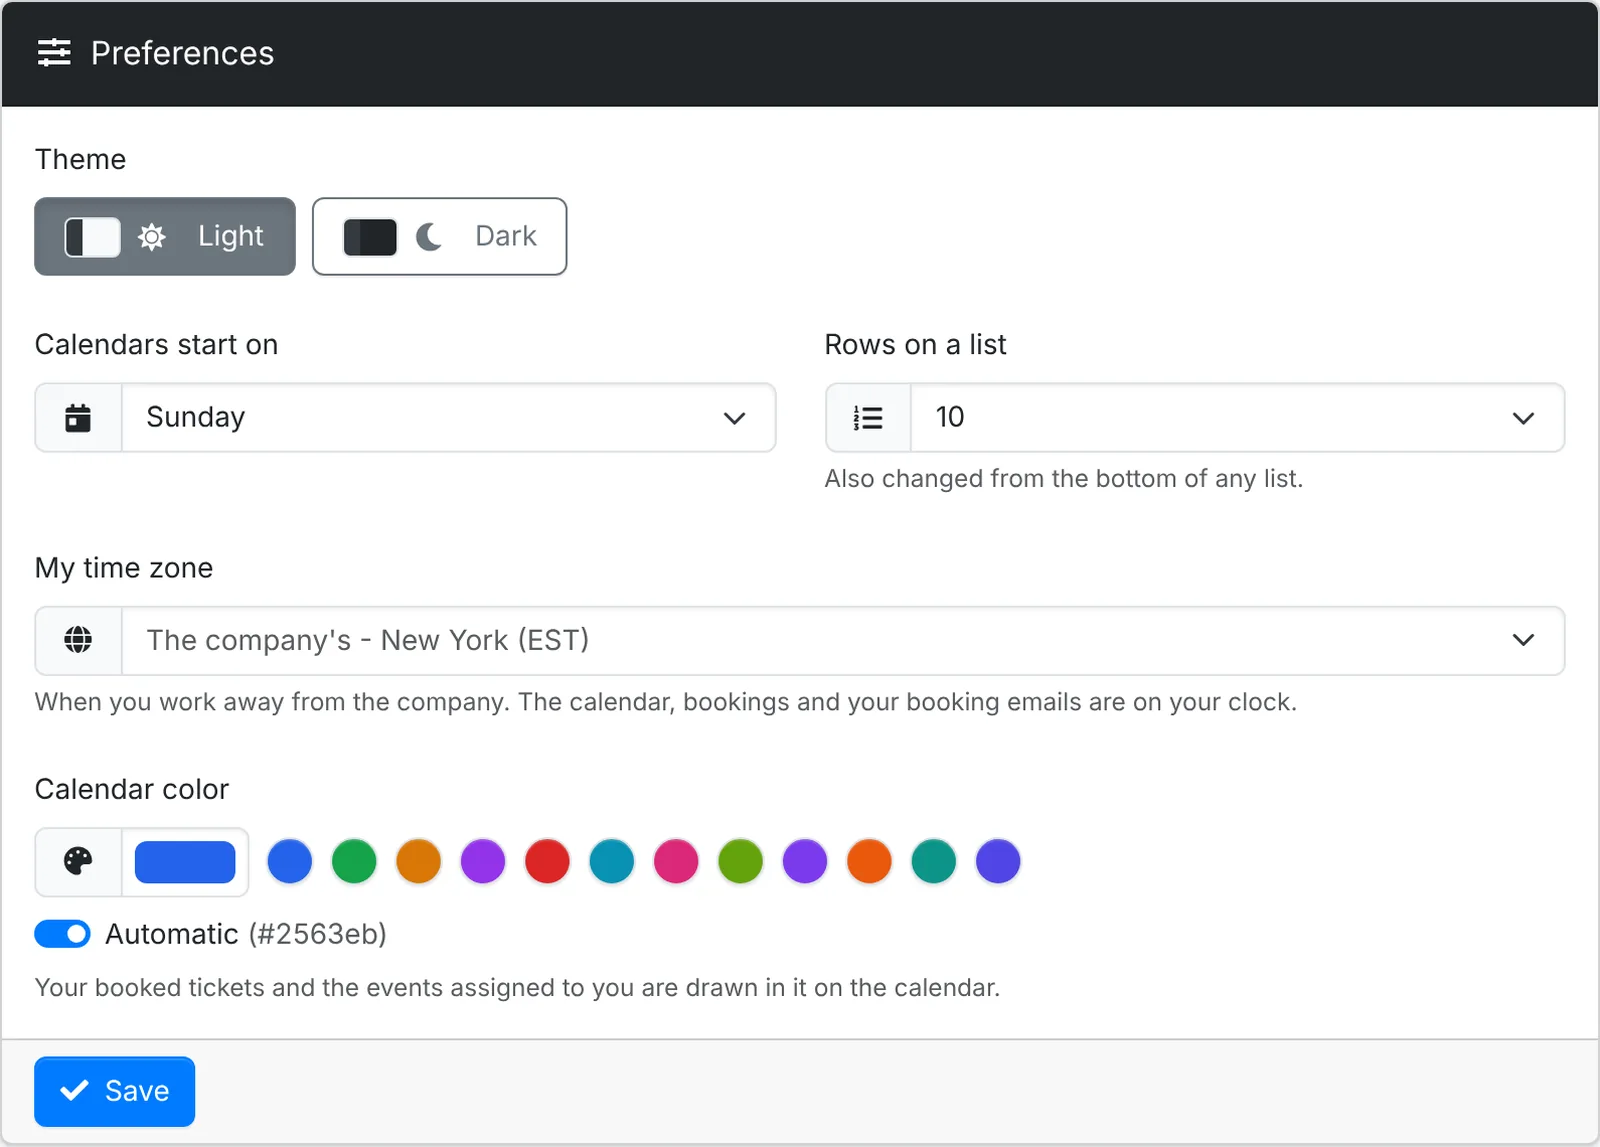
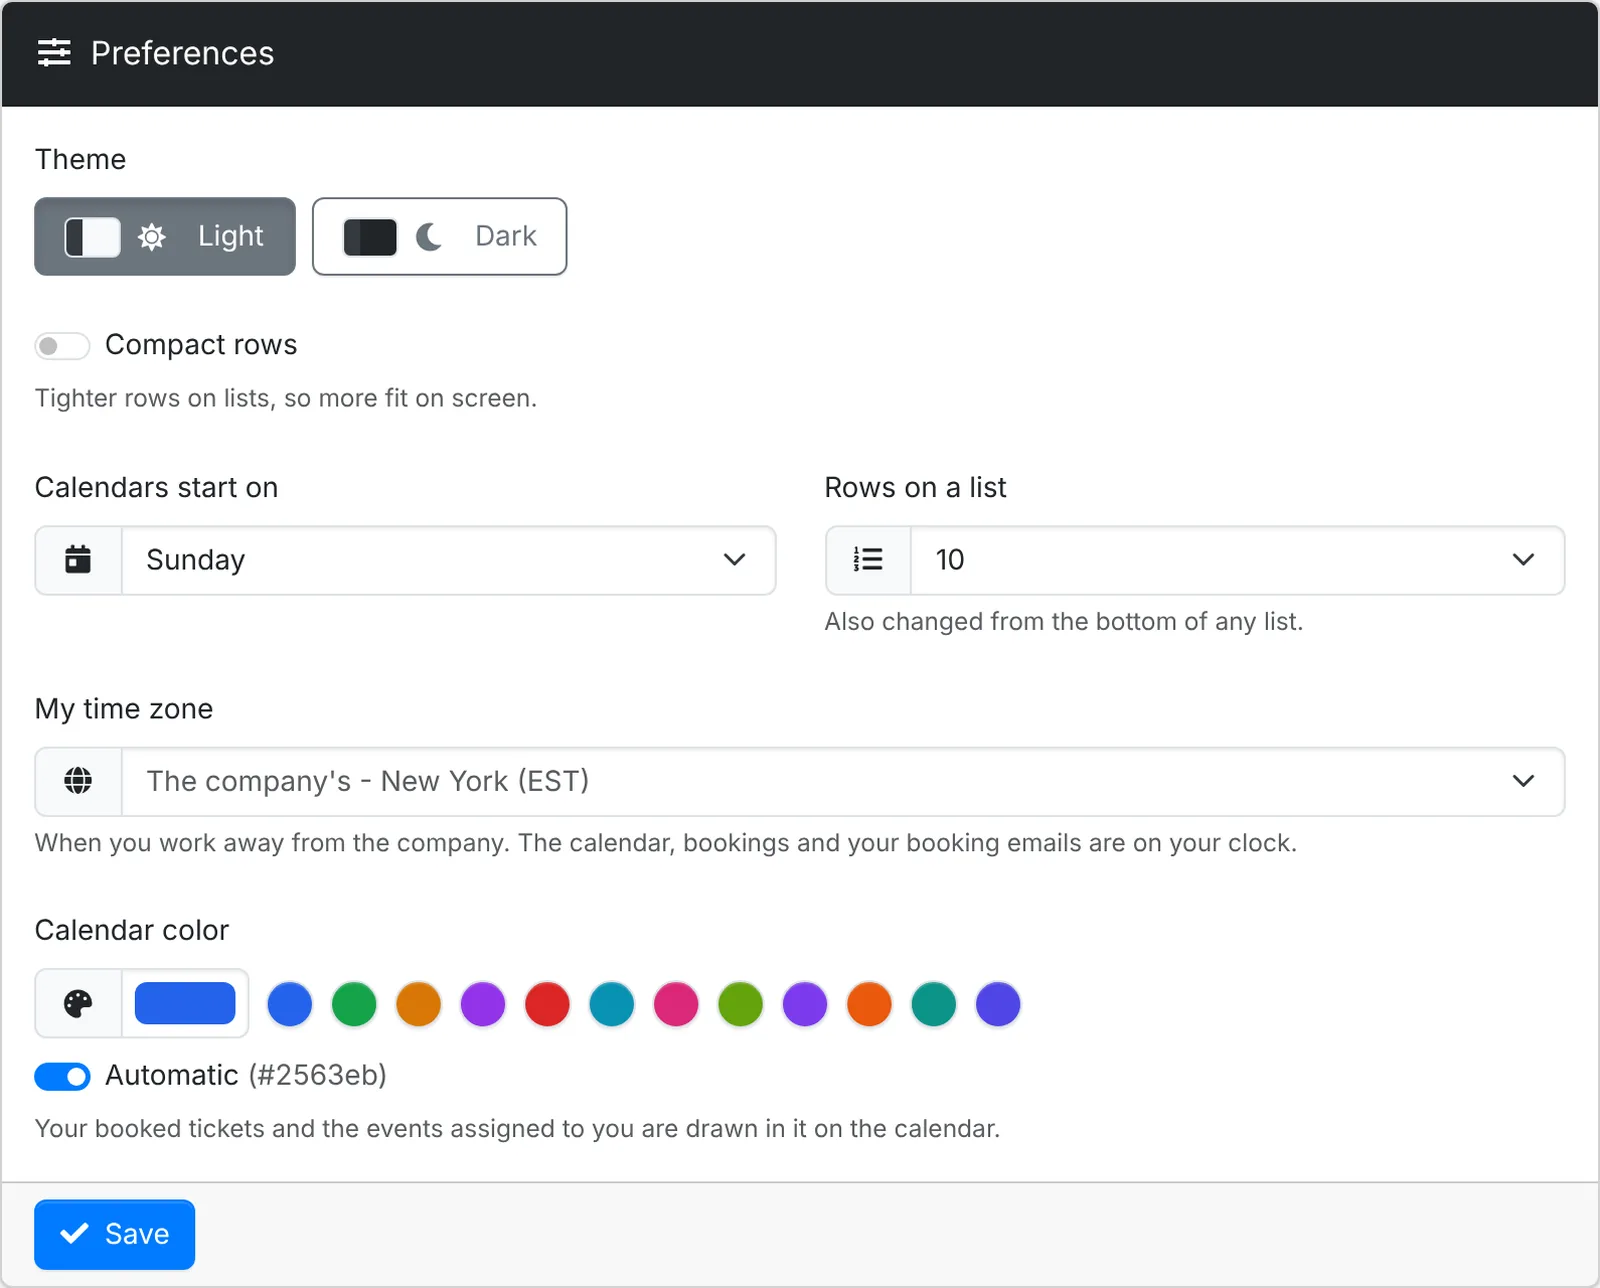
Docs: lists and windows - filters that are on and clearing them, headings that stay in view, shift-click to tick a run of rows, windows that ask before discarding typing, and Compact rows in Preferences with a new screenshot

diff --git a/content/getting-started/lists.md b/content/getting-started/lists.md
@@ -13,7 +13,8 @@ Tickets, assets, invoices, credentials, expenses - every list in ITFlow is laid 
 - **Tabs** along the top split the list into the views you use most, each with a count: workstations and servers, open and closed tickets, unpaid and overdue invoices. The count follows your search and filters.
 - **Search** - the box on the left - searches just this list. Press <kbd>Enter</kbd> or click the magnifying glass.
 - **Filters** beside it narrow the list further: a client, a location, a status, a tag, a date range. Lists with many filters fold the extra ones under **More filters**, and on the busiest lists - clients and tickets - each filter you set shows as a chip you can remove on its own.
-- **Sort** by clicking a column heading. Click it again to reverse the order.
+- A filter that is on has a yellow edge. The **×** at the end of the search box clears the search and every filter at once - on clients and tickets, **Clear all** beside the chips does the same.
+- **Sort** by clicking a column heading. Click it again to reverse the order. On a long list the headings stay at the top of the screen as you scroll down, so you can still sort, or tick every row, from there.
 - **Archived** - the box button at the right of the filters - switches to the archived records. Click it again to go back.
 
 At the foot of the list you can change how many rows show on a page, from 5 to 500, and move between pages. Your choice is remembered for every list. You can also set it in [Your account](/getting-started/account).
@@ -63,7 +64,7 @@ Admins can type a new tag's name straight into the tag list to make it. See [Cat
 
 To do the same thing to several records at once:
 
-1. Tick the box at the start of each row. The box in the column heading ticks every row on the page.
+1. Tick the box at the start of each row. The box in the column heading ticks every row on the page. To tick a run of rows, tick the first, then hold <kbd>Shift</kbd> and tick the last - every row between them is ticked too. It unticks a run the same way.
 2. Click **Bulk Action** at the top of the list. It shows how many rows are ticked.
 3. Pick what to do. Some actions ask for more first - which contact to assign, which status to set - in a window.
 
@@ -85,4 +86,4 @@ Forms have an icon in front of every field. Long forms are split into tabs; if y
 
 A field with a list of choices opens it under the field, with a search box when the list is long. **Cancel** at the top closes it without changing the field, and **Done** closes one where you tick several. A click anywhere else closes it too, a reply or other text box included.
 
-ITFlow asks before it deletes or turns off anything, and before you leave a page with a reply or note you haven't saved.
+ITFlow asks before it deletes or turns off anything, and before you leave a page with a reply or note you haven't saved. A window you've typed in asks too before it closes - from a click outside it, <kbd>Esc</kbd>, its **×** or **Cancel** - so nothing you typed is lost by accident. Saving never asks.

diff --git a/content/getting-started/account.md b/content/getting-started/account.md
@@ -59,9 +59,10 @@ When you sign in with your code, tick **Remember this browser** and ITFlow doesn
 
 ## Preferences {#preferences}
 
-![Preferences: theme, the first day of the week, rows on a list, your time zone and your calendar colour](gs-account-preferences.webp "Preferences")
+![Preferences: theme, compact rows, the first day of the week, rows on a list, your time zone and your calendar colour](gs-account-preferences.webp "Preferences")
 
 - **Theme** - **Light** or **Dark**.
+- **Compact rows** - tighter rows on every list, so more fit on screen.
 - **Calendars start on** - the first day of the week on the calendar and date pickers.
 - **Rows on a list** - how many rows every list shows on a page. You can also change this at the foot of any list.
 - **My time zone** - for when you work somewhere other than the company. The [calendar](/service-desk/calendar), [Dispatch](/service-desk/dispatch), a ticket's booking, the **Schedule** and event windows, and your booking emails are then on your own clock - the emails give the company's time beside yours. Leave it on **The company's** otherwise. Bookings are still kept in the company's time, so nobody else's view changes.
